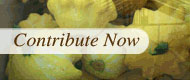
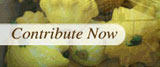
add contribute_button link to all left gutter menus

diff --git a/farm_directions.php b/farm_directions.php
@@ -50,10 +50,10 @@
 	                <li class="active"><a href="farm.php">About the Farm</a></li>
 	                <li class="active"><a href="farm_directions.php">Directions</a></li>               
 	            </ul>
-            
-           
-          <p><img src="images/eggplant.jpg" alt="eggplant" />
-            
+	            <<a href="getinvolved_donate.php">
+	            		<img src="images/contribute_button.jpg" alt="contribute"/>
+	            </a>       
+          		<p><img src="images/eggplant.jpg" alt="eggplant" />           
       		</div><!--end content left-->
       
             <div id="content_right">

diff --git a/farm.php b/farm.php
@@ -49,10 +49,10 @@
 	                <li class="active"><a href="farm.php">About the Farm</a></li>
 	                <li class="active"><a href="farm_directions.php">Directions</a></li>               
 	            </ul>
-            
-           
-           <!--<p><img src="images/eggplant.jpg" alt="eggplant" /></p>-->
-            
+                <<a href="getinvolved_donate.php">
+	            		<img src="images/contribute_button.jpg" alt="contribute"/>
+	            </a>
+                       
       		</div><!--end content left-->
       
             <div id="content_right">

diff --git a/about_partners.php b/about_partners.php
@@ -48,6 +48,10 @@
                     <li><a href="about_leadership.php">&raquo; Leadership Bios</a></li>
                     <li class="active"><a href="about_partners.php">Partners &amp; Supporters</a></li>
                 </ul>
+	            <<a href="getinvolved_donate.php">
+	            		<img src="images/contribute_button.jpg" alt="contribute"/>
+	            </a>
+
       	 </div><!--end content left-->
      
          <div id="content_right">

diff --git a/about_leadership.php b/about_leadership.php
@@ -50,6 +50,10 @@
                    <li class="active"><a href="about_leadership.php">Leadership Bios</a></li>
                    <li><a href="about_partners.php">&raquo; Partners &amp; Supporters</a></li>
                </ul>
+            <<a href="getinvolved_donate.php">
+            		<img src="images/contribute_button.jpg" alt="contribute"/>
+            </a>
+
       	 </div><!--end content left-->
      
          <div id="content_right">

diff --git a/about_gb.php b/about_gb.php
@@ -48,6 +48,9 @@
                 <li><a href="about_leadership.php">&raquo; Leadership Bios</a></li>
                 <li><a href="about_partners.php">&raquo; Partners &amp; Supporters</a></li>
             </ul>
+            <<a href="getinvolved_donate.php">
+            		<img src="images/contribute_button.jpg" alt="contribute"/>
+            </a>
       		</div><!--end content left-->
      
          <div id="content_right">

diff --git a/farming.php b/farming.php
@@ -49,6 +49,9 @@
                 <li class="active"><a href="farm.php">About the Farm</a></li>
                 <li class="active"><a href="farm_directions.php">Directions</a></li>               
             </ul>
+            <<a href="getinvolved_donate.php">
+            		<img src="images/contribute_button.jpg" alt="contribute"/>
+            </a>
                         
       		</div><!--end content left-->
       

diff --git a/training.php b/training.php
@@ -50,6 +50,10 @@
 	                <li class="active"><a href="farm_directions.php">Directions</a></li>               
 	            </ul>
                         
+	            <<a href="getinvolved_donate.php">
+	            		<img src="images/contribute_button.jpg" alt="contribute"/>
+	            </a>
+
       		</div><!--end content left-->
       
             <div id="content_right">
